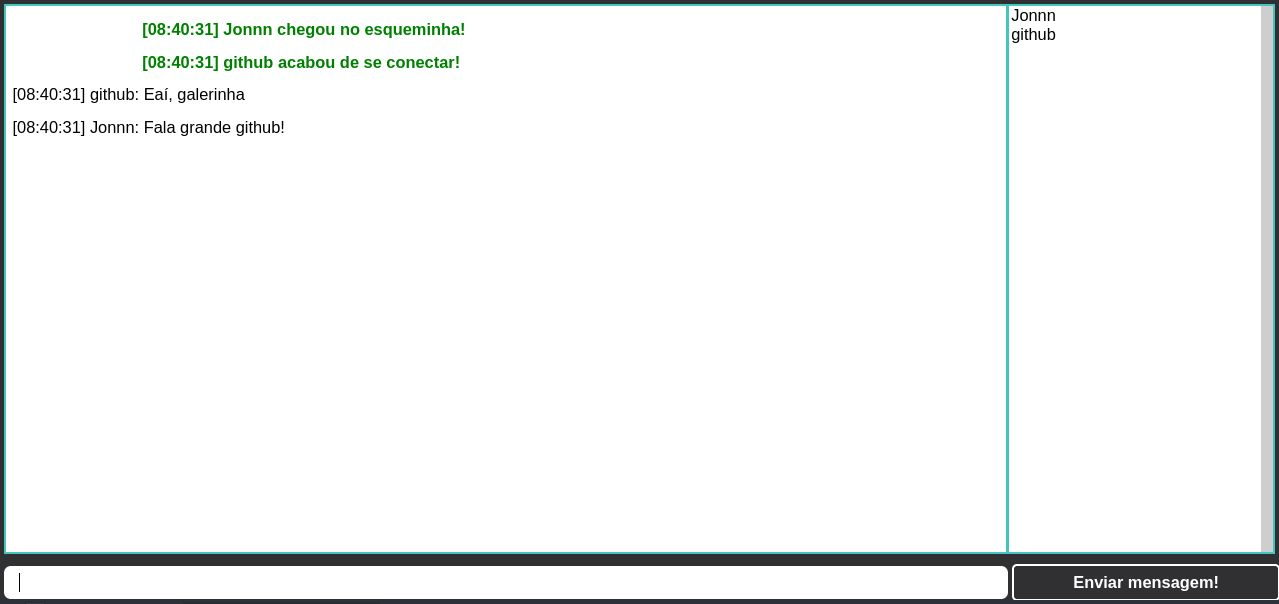
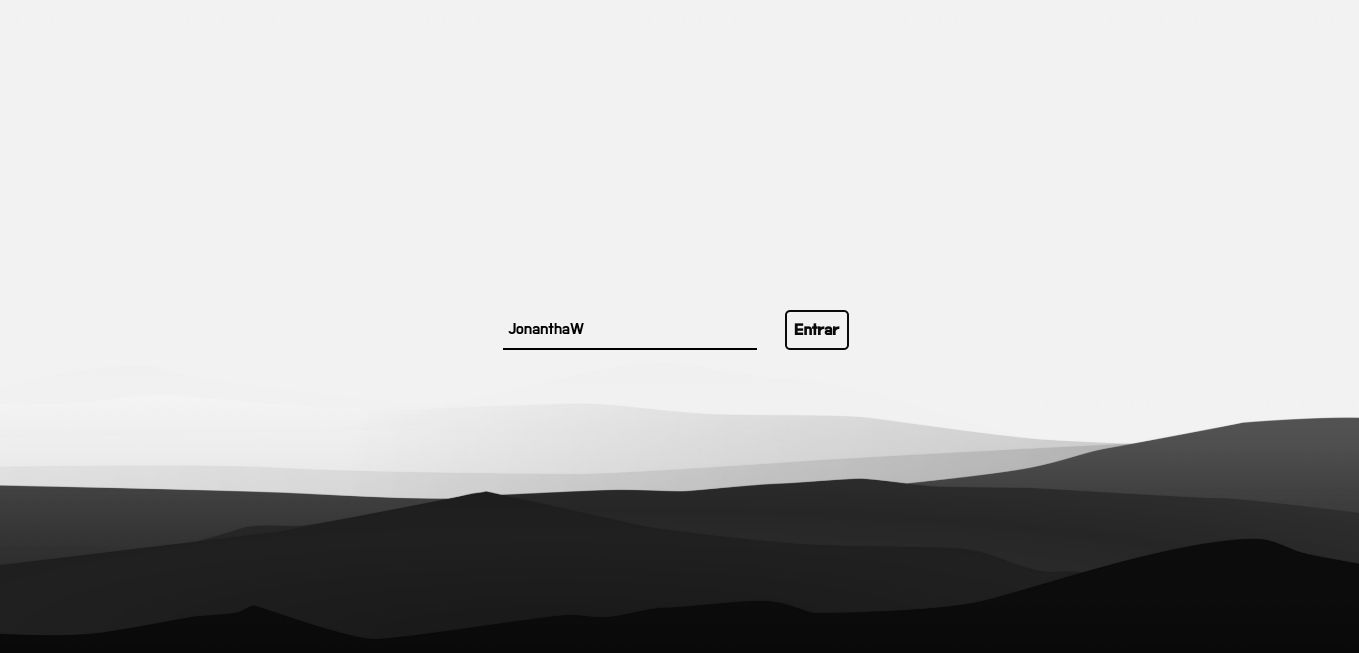
Change design patterns

diff --git a/public/style.css b/public/style.css
@@ -1,5 +1,5 @@
 * {
-     font-family: Arial, Tahoma, sans-serif;
+     font-family: 'Do Hyeon', sans-serif;
      margin: 0;
      padding: 0;
      box-sizing: border-box;
@@ -7,88 +7,99 @@
 }
 body{
     background:#302F31;
-    padding: 1vw;
-    position: fixed;
-    width: 100vw;
     height: 100vh;
+    background-image: url("../assets/indexBackground.jpg");
+    background-size: cover;
+    background-repeat: no-repeat;
 }
 
-form{
-     margin:1vw 0;
+#login {
+  display: flex;
+}
+
+form {
+   margin:1vw 0;
+   justify-self: center;
 }
 form input[type='text']{
-     border: .2vw solid white;
-     border-radius: .5vw;
-     padding:5px;
-     width:75%;
-     outline: none;
-     padding-left: 1vw;
+    border: none;
+    padding: 5px;
+    border-bottom: .2vw solid black;
+    background-color: inherit;
+    font-size: 1.2vw;
+    color: black;
+    margin-right: 2vw;
+    outline: none;
 }
+
 form input[type='submit']{
      background: none;
-     border: .2vw solid white;
+     border: .2vw solid #0B0A0A;
      border-radius: 5px;
-     color:#FFF;
+     color:#0B0A0A;
      cursor:pointer;
      font-weight: bold;
      padding:.5vw;
-     width: 20%;
+     transition-duration: .3s;
 }
 form input[type='submit']:hover {
-  background-color: white;
-  color: black;
-  border-color: white;
+  background-color: black;
+  color: white;
+  border-color: black;
 }
 #historico_mensagens{
      background: #FFF;
-     border: .2vw solid white;
-     height: 550px;
+     height: 90vh;
 }
 
 #historico_mensagens p {
   margin: 1vw .5vw;
 }
+
 #historico_mensagens h2, #historico_mensagens h3  {
   margin: 1vw 10vw;
   color: green;
   font-size: 1.2vw;
 }
+
 #historico_mensagens h3 {
   color: red !important;
 }
 
 #sala_chat{
-     display: none;
+   display: none;
+   height: 100vh;
 }
+
+#sala_chat select {
+  background-color: #11121e;
+  direction: rtl;
+  text-align: center;
+  scrollbar-width: none;
+}
+
+#lista_usuarios{
+  width: 20%;
+}
+#lista_usuarios option {
+  color: white;
+}
+
 #acesso_usuario{
-     height:30px;
-     left:50%;
-     margin-left:-160px;
-     margin-top:-15px;
-     position: fixed;
-     top:50%;
-     width:320px;
+  display: flex;
+  justify-content: center;
+  align-items: center;
+  height: inherit;
 }
 #acesso_usuario form{
      margin:0;
 }
 
-#historico_mensagens, #lista_usuarios{
-     background: #FFF;
-     border:2px solid #45C5BF;
-     height: 550px;
-     float:left;
-     margin-bottom: 10px;
-     width:75%;
-}
-...
-#historico_mensagens{
-     border-right: 0;
-}
-#lista_usuarios{
-border-left: 1px solid #45C5BF;
-     width: 20%;
-}
-#lista_usuarios option {
-  margin-left: 1%;
+.mensagem_container {
+  background-color: #fff;
+  display: grid;
+  width: 100vw;
+  overflow: auto;
+  word-break: break-all;
+  word-wrap: break-word;
 }

diff --git a/app.js b/app.js
@@ -4,7 +4,6 @@ const path = require("path")
 const server = require("http").createServer(app);
 const port = 3000;
 const date = require("date-and-time");
-const now = new Date();
 const { Server } = require('socket.io');
 const io = new Server(server);
 var usuarios = [];
@@ -17,8 +16,9 @@ io.on("connection", socket => {
 			socket.apelido = apelido;
 			usuarios[apelido] = socket;
 			io.sockets.emit("atualizar usuarios", Object.keys(usuarios));
-			let entrou_sucesso = `[${date.format(now, "HH:mm:ss")}] ${socket.apelido}`;
+			let entrou_sucesso = `[${date.format(new Date(), "HH:mm:ss")}] ${socket.apelido}`;
 			io.sockets.emit("entrou chat", entrou_sucesso);
+			console.log(`[${date.format(new Date(), "HH:mm:ss")}] ${socket.apelido} entrou no chat!`);
 			callback(true);
 	  }
 		else {
@@ -26,11 +26,11 @@ io.on("connection", socket => {
 			}
 	})
 	socket.on("enviar mensagem", mensagem_enviada => {
-		 mensagem_enviada = `[${date.format(now, "HH:mm:ss")}] ${socket.apelido}: ${mensagem_enviada}`;
+		 mensagem_enviada = `[${date.format(new Date(), "HH:mm:ss")}] ${socket.apelido}: ${mensagem_enviada}`;
 		io.sockets.emit("atualizar mensagem", mensagem_enviada);
 	})
 	socket.on("disconnect", () => {
-		let saiu_sucesso = `[${date.format(now, "HH:mm:ss")}] ${socket.apelido}`;
+		let saiu_sucesso = `[${date.format(new Date(), "HH:mm:ss")}] ${socket.apelido}`;
 		delete usuarios[socket.apelido];
 		io.sockets.emit("atualizar usuarios", Object.keys(usuarios));
 		io.sockets.emit("saiu chat", saiu_sucesso);

diff --git a/public/index.html b/public/index.html
@@ -3,21 +3,26 @@
 <head>
      <title>ChatJS - Aplicação em NODE</title>
      <link rel="stylesheet" href="/style.css" />
+     <link rel="preconnect" href="https://fonts.gstatic.com">
+     <link href="https://fonts.googleapis.com/css2?family=Do+Hyeon&display=swap" rel="stylesheet">
 </head>
 <body>
       <div id='acesso_usuario'>
       <form id="login">
           <input type='text' placeholder='Insira seu apelido' name='apelido' id='apelido' />
-          <input type='submit' value='Entrar' />
+          <input id='apelido_enviar' type='submit' value='Entrar' />
       </form>
     </div>
     <div id='sala_chat'>
-      <div id="historico_mensagens"></div>
-      <select multiple="multiple" id='lista_usuarios'><option value=''>Todos</option></select>
-      <form id="chat">
-          <input type='text' id='texto_mensagem' name='texto_mensagem' />
-          <input type='submit' value='Enviar mensagem!' />
-      </form>
+      <select multiple="multiple" id='lista_usuarios'><option value=''></option></select>
+      <div class="mensagem_container">
+        <div id="historico_mensagens">
+        </div>
+        <form id="chat">
+            <input type='text' id='texto_mensagem' name='texto_mensagem' />
+            <input type='submit' value='Enviar mensagem!' />
+        </form>
+        </div>
     </div>
 
      <script src="/socket.io/socket.io.js"></script>

diff --git a/public/sending.js b/public/sending.js
@@ -17,7 +17,7 @@ document.querySelector("#login").addEventListener("submit", (watcher) => {
       socket.emit("entrar", document.querySelector("#apelido").value, valido => {
         if (valido) {
           document.querySelector("#acesso_usuario").style.display = "none";
-          document.querySelector("#sala_chat").style.display = "block";
+          document.querySelector("#sala_chat").style.display = "flex";
         }
         else {
           document.querySelector("#acesso_usuario").value = "";

diff --git a/README.md b/README.md
@@ -17,3 +17,4 @@ Aplicativo de sala de chat simples, igual ao antigo e popular serviço do MIRC e
 ### :bulb: Tela da aplicação
 
 ![image](https://github.com/JonanthaW/node-CHAT/blob/main/public/assets/example1.jpg)
+![image](https://github.com/JonanthaW/node-CHAT/blob/main/public/assets/example2.jpg)
